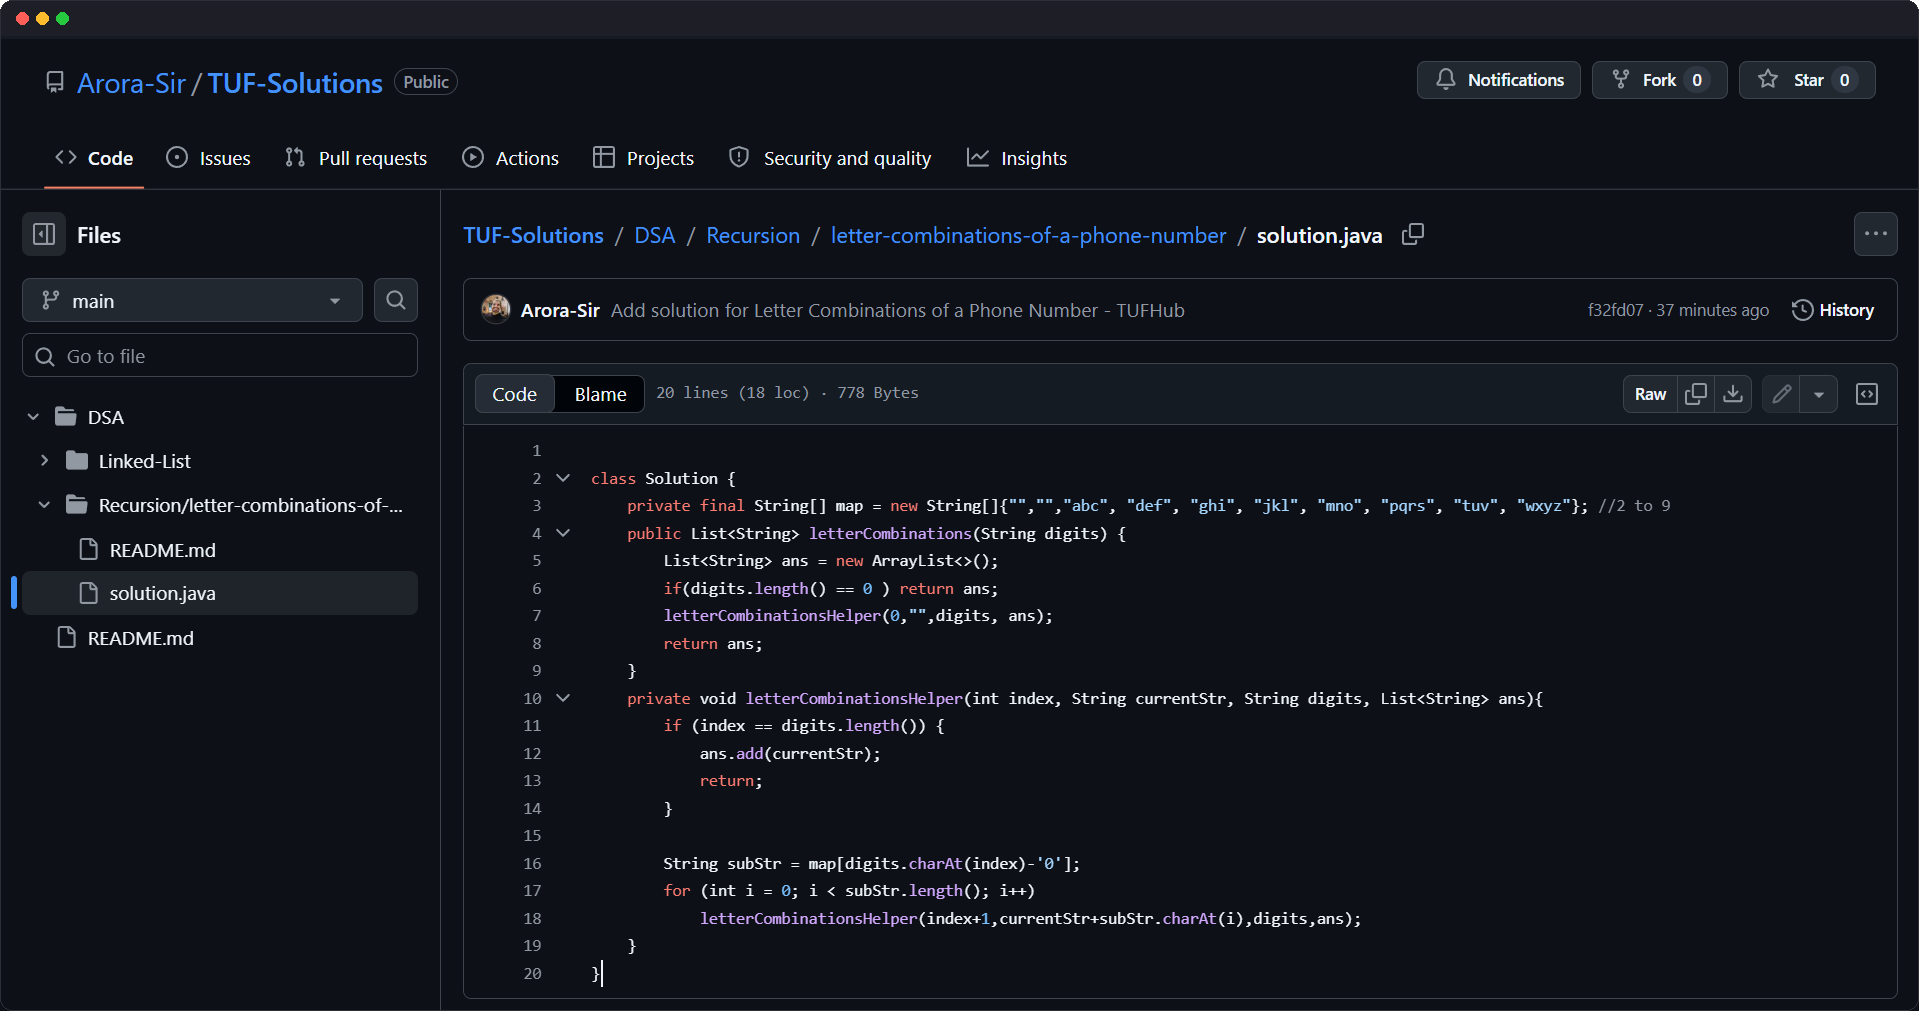
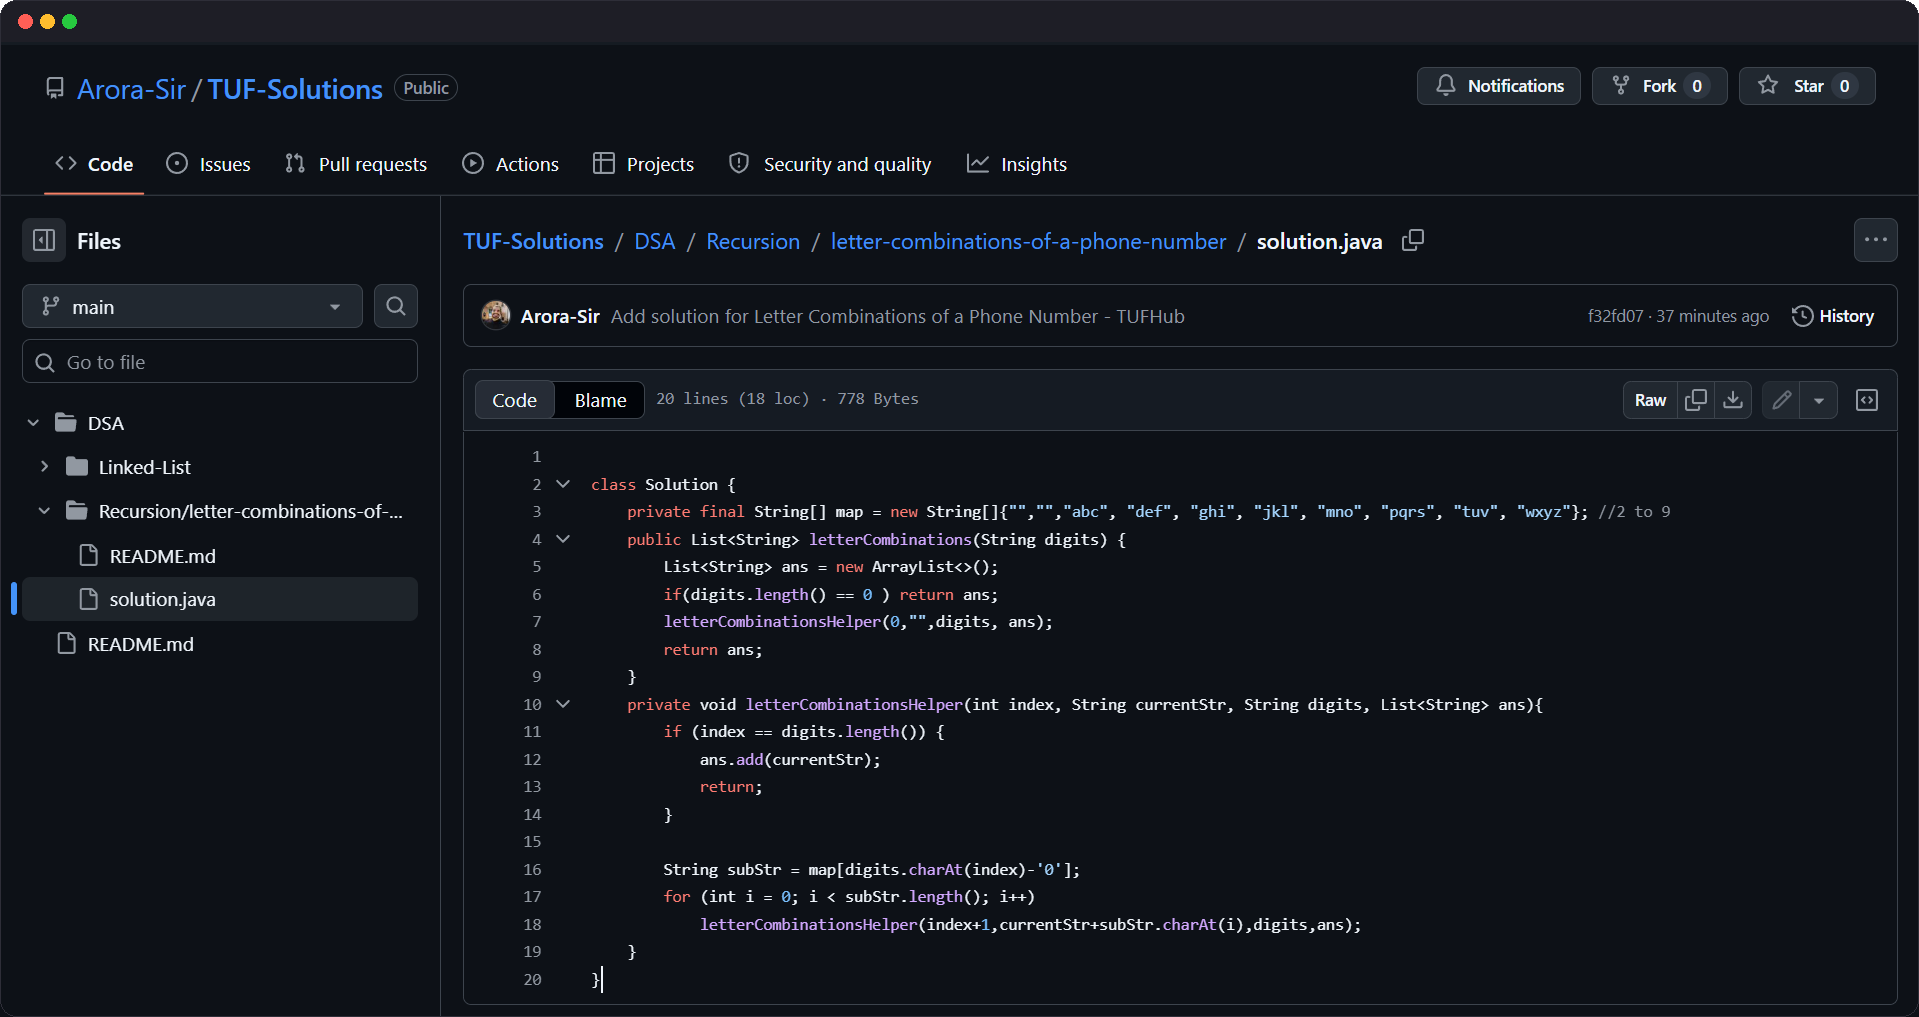
design: ingest high-res screenshots and apply dark browser window frames

diff --git a/README.md b/README.md
@@ -30,21 +30,21 @@ No manual copying. No drag and drop. Just solve, submit, and your solution lands
 ## Screenshots & Showcase
 
 <p align="center">
-  <img src="src/assets/readme_screenshots/popup_dashboard.png?v=4" width="900" alt="TUFHub Extension Popup Dashboard" />
+  <img src="src/assets/readme_screenshots/popup_dashboard.png?v=5" width="900" alt="TUFHub Extension Popup Dashboard" />
 </p>
 
 ### 📁 Master Solutions Repository Index
 Auto-maintains a structured `README.md` at the root of your solutions repository with real-time stats and topic badges.
 
 <p align="center">
-  <img src="src/assets/readme_screenshots/master_index.png?v=4" width="900" alt="Master Solutions Index Table" />
+  <img src="src/assets/readme_screenshots/master_index.png?v=5" width="900" alt="Master Solutions Index Table" />
 </p>
 
 ### ⚡ Automated Solution Commits
 Commits code solutions with clean folder hierarchy, language extensions, and formatted problem statements.
 
 <p align="center">
-  <img src="src/assets/readme_screenshots/github_sync.png?v=4" width="900" alt="GitHub Synced Code Preview" />
+  <img src="src/assets/readme_screenshots/github_sync.png?v=5" width="900" alt="GitHub Synced Code Preview" />
 </p>
 
 ## Features
